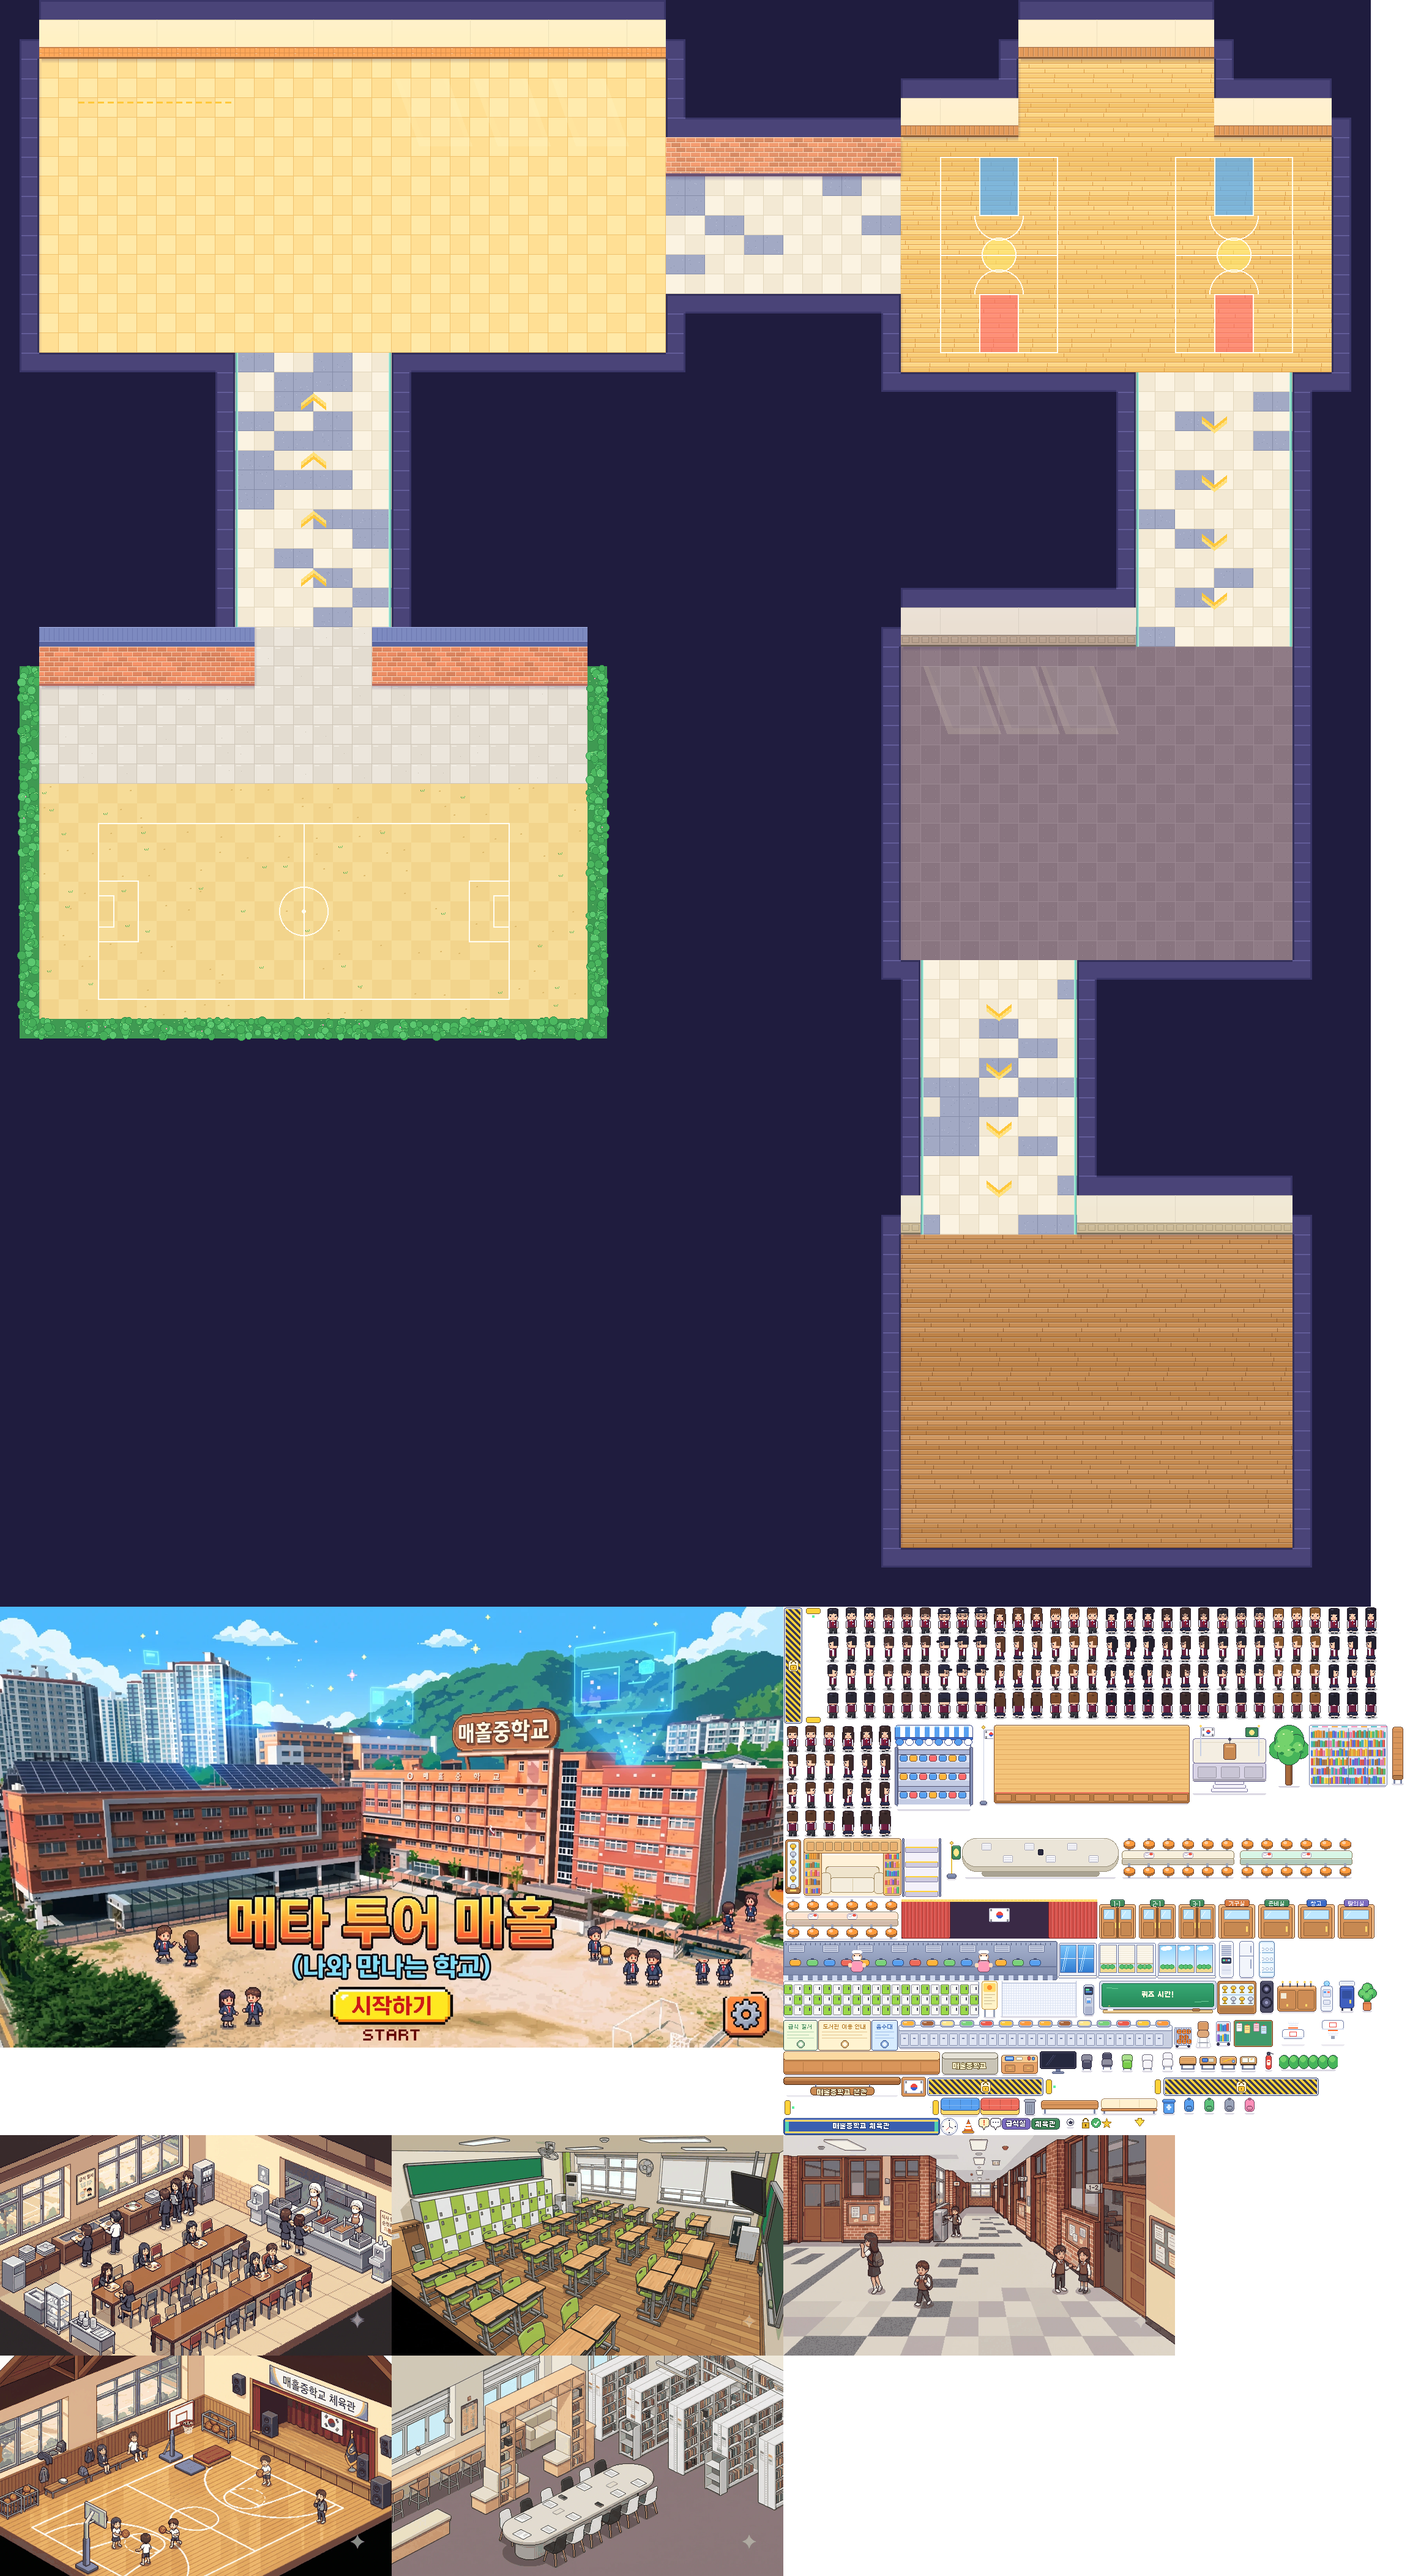
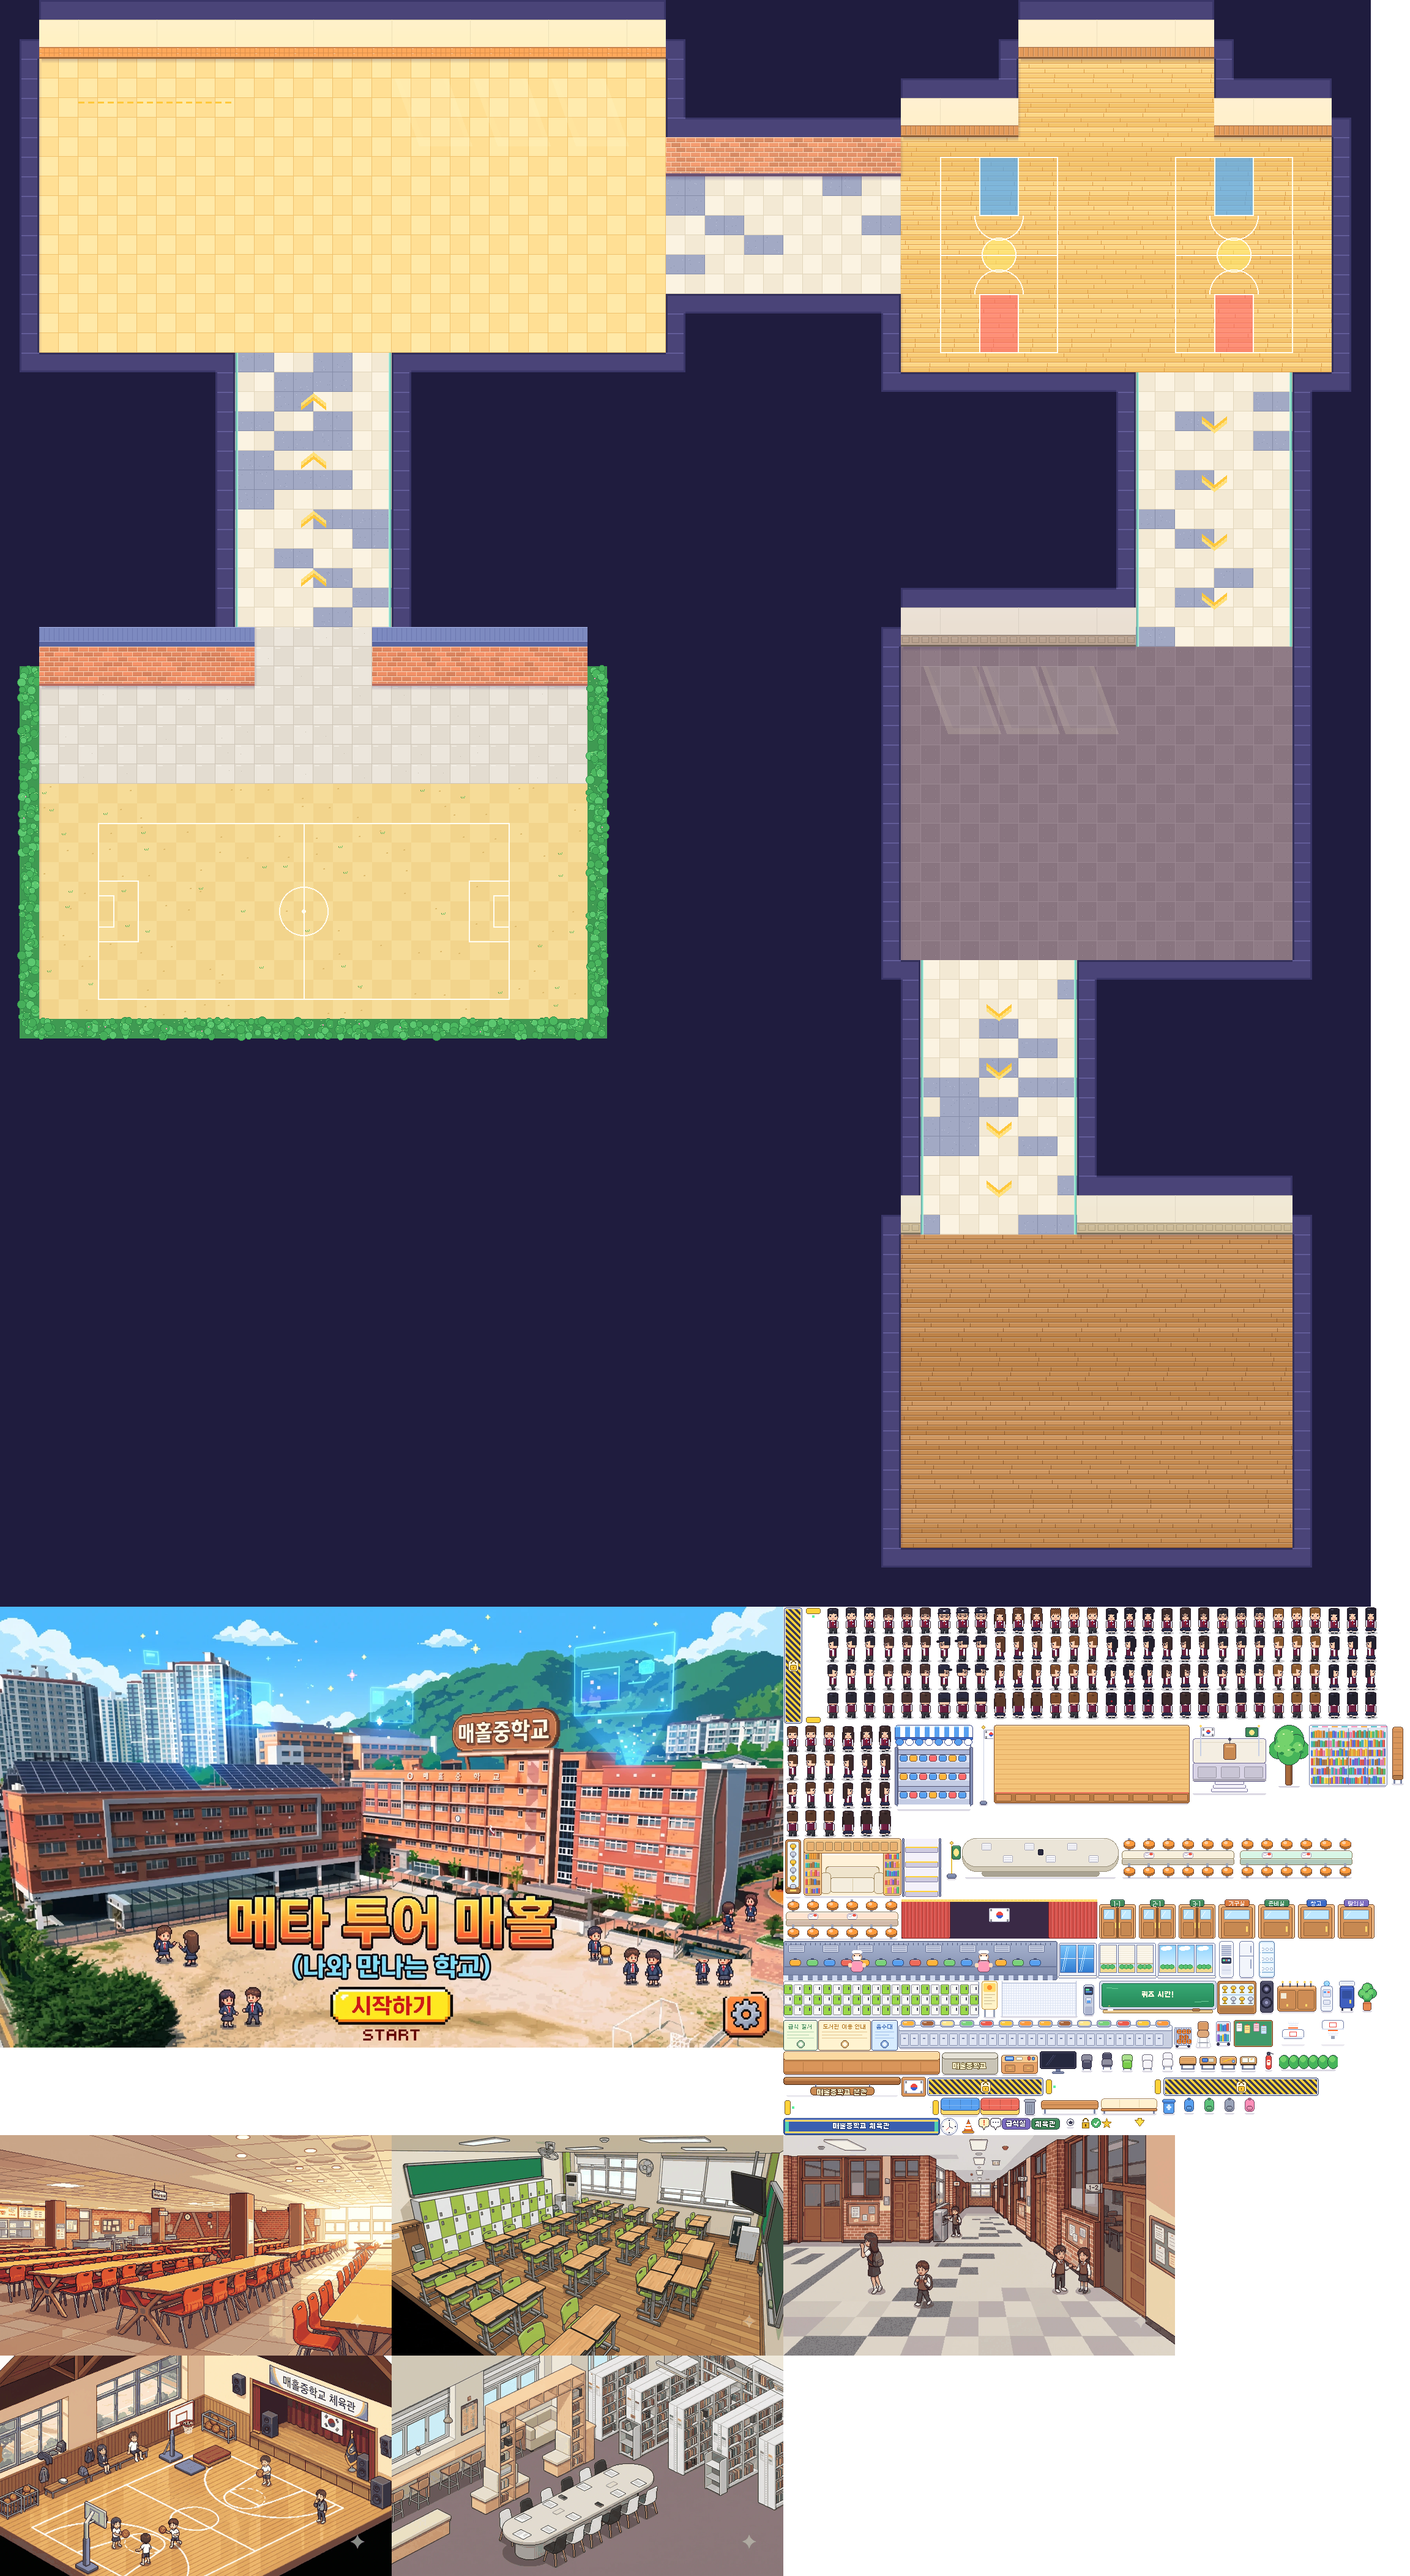
급식실에 처음 들어갈 때 나오는 사진을 새 급식실 그림으로 교체
- tools/reference/places/cafeteria.webp 를 사용자가 준 픽셀아트 급식실 그림으로 바꾸고 art.png 다시 만듦
- 예전 급식실 사진은 tools/reference/places_alt/cafeteria_old.webp 로 보관

Claude-Session: https://claude.ai/code/session_01F6J8oFkrZQ49pGKCobruiD

Changed region(s): [[0.0, 0.8096, 0.2812, 0.9342]]

diff --git a/CLAUDE.md b/CLAUDE.md
@@ -110,7 +110,8 @@
 
 ### 참고 이미지 위치
 - `tools/reference/places/` — 게임에 쓰는 장소 사진(cafeteria, gym, library②, classroom②, corr1).
-- `tools/reference/places_alt/` — 안 쓰는 대안(교실①, 도서관①, 복도②) + 급식실 식탁 배치 스케치.
+- `tools/reference/places_alt/` — 안 쓰는 대안(교실①, 도서관①, 복도②, 예전 급식실 사진 `cafeteria_old`) + 급식실 식탁 배치 스케치.
+  (급식실 사진은 사용자가 준 픽셀아트 급식실 그림으로 교체됨)
 - `tools/reference/characters/` — 동훈, 민성(안경), 성민(모자).
 - `tools/reference/style/zep_style.webp` — 목표 그림체(ZEP).
 - `tools/reference/title_ref.webp` — 타이틀 학교 외관.
